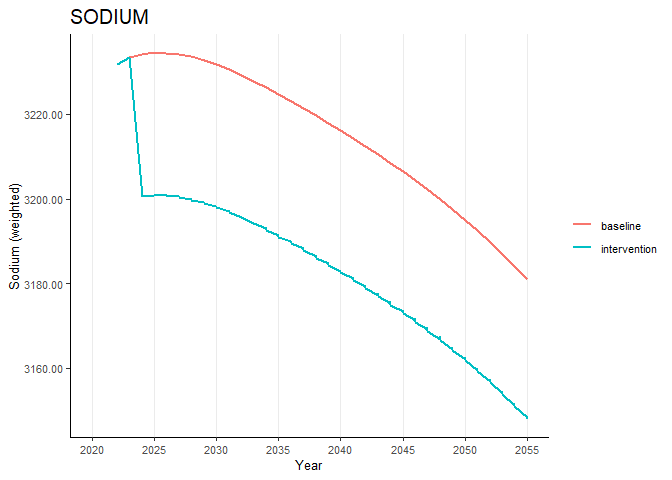
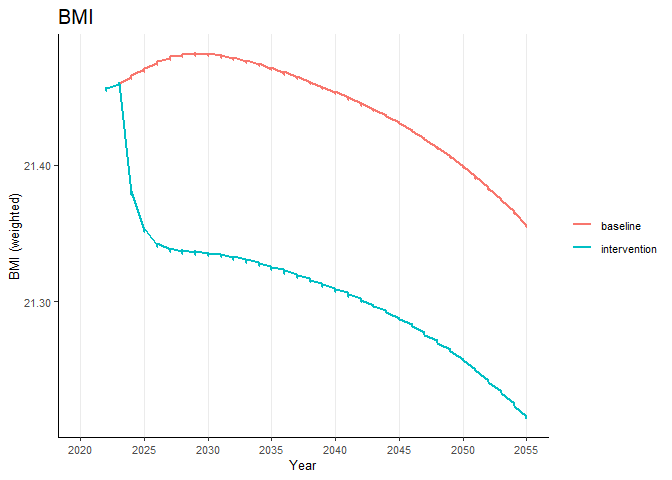
update README with bmi plot as example

diff --git a/README.md b/README.md
@@ -66,26 +66,26 @@ str(data_weighted_rf_wide_collapse)
 #>  $ diff_obesity_max : num [1:34] 0 0 -0.00256 -0.00362 -0.00416 ...
 ```
 
-To plot a risk factor (say, “sodium”) for the weighted data, you can use
+To plot a risk factor (say, “bmi”) for the weighted data, you can use
 the following code:
 
 ``` r
-# Plot the risk factor "sodium"
-riskfactors("sodium", data_weighted)
+# Plot the risk factor "bmi"
+riskfactors("bmi", data_weighted)
 ```
 
 <img src="man/figures/README-riskfactor_plot-1.png" width="100%" />
 
-To plot the difference in the risk factor (say, “sodium”) for the
-weighted data, you can use the following code:
+To plot the difference in the risk factor (say, “bmi”) for the weighted
+data, you can use the following code:
 
 ``` r
-# Plot of difference in the risk factor "sodium"
-riskfactors_diff("sodium", 
+# Plot of difference in the risk factor "bmi"
+riskfactors_diff("bmi", 
                  data_weighted_rf_wide_collapse,
-                 scale_y_continuous_limits = c(-64.6, 0),
-                 scale_y_continuous_breaks = c(-64.6, -32.3, 0),
-                 scale_y_continuous_labels = c(-64.6, -32.3, 0))
+                 scale_y_continuous_limits = c(-0.148, 0),
+                 scale_y_continuous_breaks = c(-0.148, -0.074, 0),
+                 scale_y_continuous_labels = c(-0.148, -0.074, 0))
 #> Warning: Use of `data_weighted_rf_wide_collapse$time` is discouraged.
 #> ℹ Use `time` instead.
 #> Use of `data_weighted_rf_wide_collapse$time` is discouraged.
